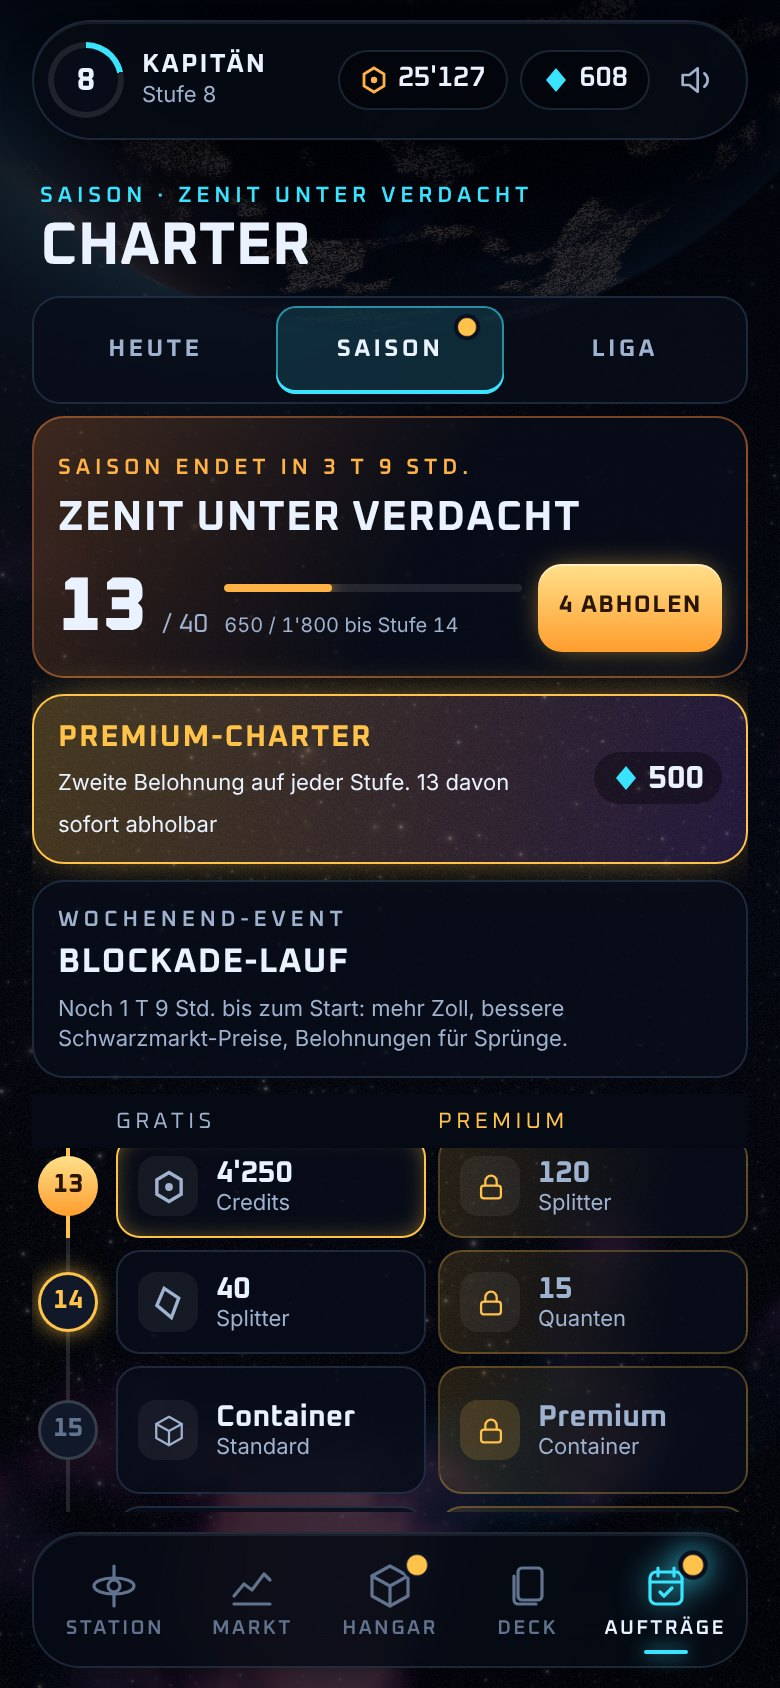
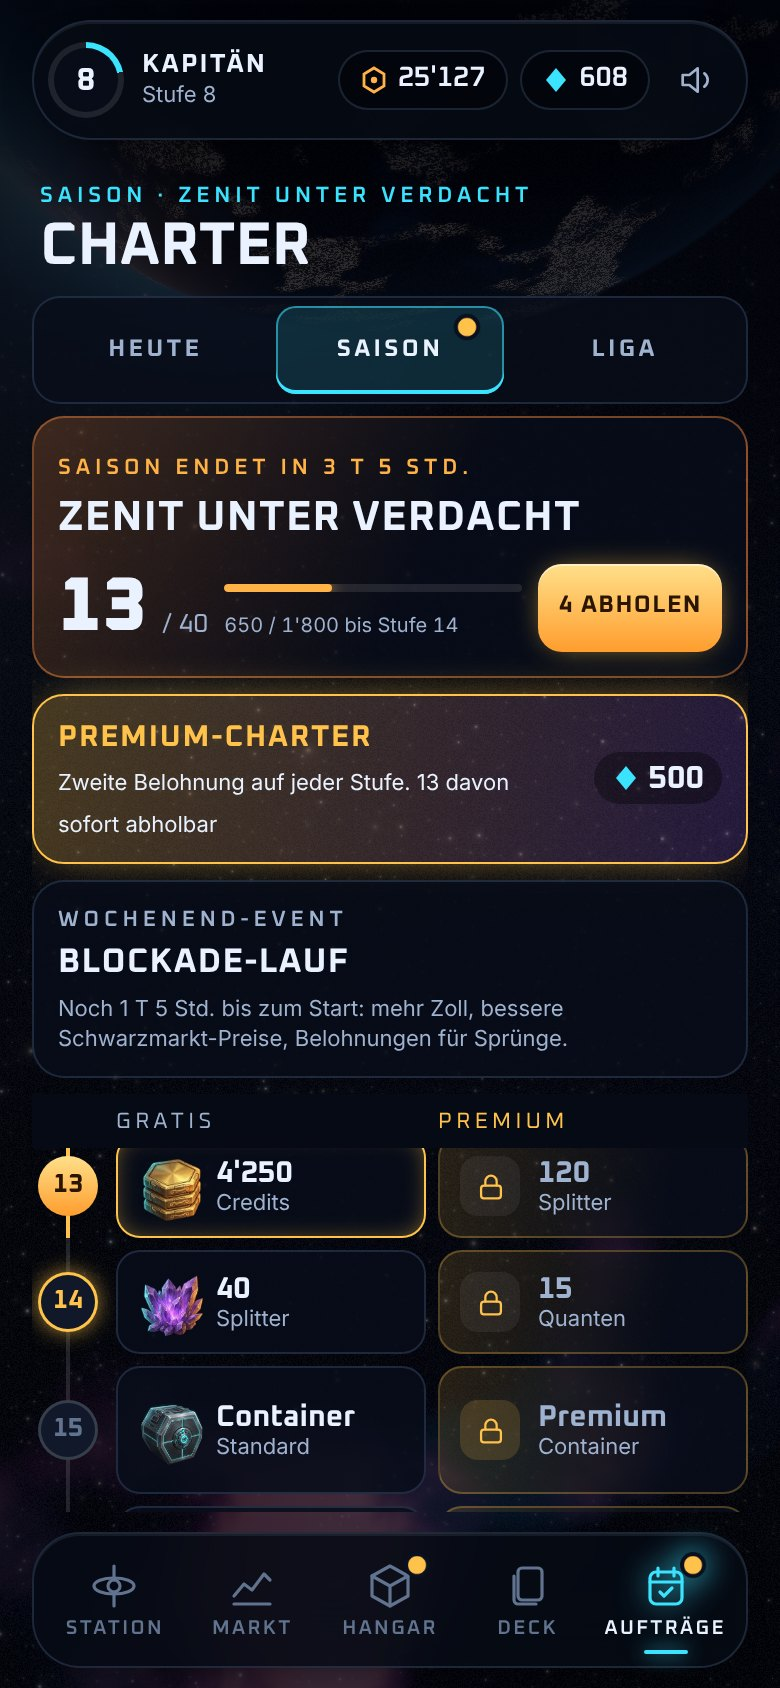
Encounter beat, shorter skippable warp, arrival chips, currency art
- Between an encounter choice and its result there is a beat of about a
  second with one steady pulse, the same for every choice and outcome.
  The chance that was shown stays on screen
- From the fourth jump of a session the launch is shorter, and a tap skips
  launch and cruise
- The arrival card shows courier pay, the streak tick and what the cargo
  on board is worth at this market. The streak no longer toasts mid-warp
- Charter reward tiles use the rendered currency and crate art

Claude-Session: https://claude.ai/code/session_01LRkk68pyJcCphAoNdXRYk3

diff --git a/packages/client/src/ui/Travel.tsx b/packages/client/src/ui/Travel.tsx
@@ -1,15 +1,20 @@
-import { FACTIONS, GOOD_BY_ID, STATION_BY_ID, type EncounterChoice, type GoodId } from '@nova/core';
+import { FACTIONS, GOOD_BY_ID, quote, STATION_BY_ID, type EncounterChoice, type GoodId } from '@nova/core';
 import { useEffect, useState } from 'react';
 import { audio } from '../audio/engine.ts';
 import { stage } from '../stage/index.ts';
 import { useApp, type Travel as TravelState } from '../store.ts';
 import { FACTION_COLOR, num } from './format.ts';
 
-type Phase = 'launch' | 'encounter' | 'outcome' | 'cruise' | 'arrive';
+type Phase = 'launch' | 'encounter' | 'resolve' | 'outcome' | 'cruise' | 'arrive';
 
-const LAUNCH_MS = 2400;
+/** The first jumps of a session get the full launch. After that it is shorter: jump 200 is not jump 1. */
+const LAUNCH_LONG_MS = 2400;
+const LAUNCH_SHORT_MS = 1400;
+let jumpsThisSession = 0;
+/** The beat between a choice and its result. The result is already decided: this only lets it land. */
+const RESOLVE_MS = 1100;
 const CRUISE_MS = 1100;
-const ARRIVE_MS = 2600;
+const ARRIVE_MS = 3400;
 
 
 const OPTION: Record<EncounterChoice, { label: string; stat?: 'nav' | 'hdl' | 'tec' | 'kmp'; note: (hot: boolean) => string }> = {
@@ -40,26 +45,39 @@ export function Travel({ travel }: { travel: TravelState }) {
   const busy = useApp((s) => s.busy);
   const end = useApp((s) => s.endTravel);
   const [phase, setPhase] = useState<Phase>(travel.resumed ? 'encounter' : 'launch');
+  const [chosen, setChosen] = useState<EncounterChoice | null>(null);
+  /** The chance as it was shown when the choice was made: the encounter is gone from the view once it is resolved. */
+  const [chosenChance, setChosenChance] = useState(1);
+  const [beatOver, setBeatOver] = useState(false);
+  const [launchMs] = useState(() => (jumpsThisSession++ >= 3 ? LAUNCH_SHORT_MS : LAUNCH_LONG_MS));
   const dest = STATION_BY_ID.get(travel.to)!;
   const encounter = view.encounter;
 
   // The server answer for an encounter choice arrives as travel.outcome.
-  useEffect(() => { if (travel.outcome && phase === 'encounter') setPhase('outcome'); }, [travel.outcome, phase]);
+  // It is shown once the beat is over, never before.
+  useEffect(() => {
+    if (travel.outcome && (phase === 'encounter' || (phase === 'resolve' && beatOver))) setPhase('outcome');
+  }, [travel.outcome, phase, beatOver]);
 
   useEffect(() => {
     let timer = 0;
     if (phase === 'launch') {
       audio.duck(true);
-      audio.warp(LAUNCH_MS / 1000);
+      audio.warp(launchMs / 1000);
       stage.setWarp(1);
       stage.setPlanet(-1.6, 0.4, 1.8); // the world slides past as we accelerate
-      timer = window.setTimeout(() => setPhase(encounter ? 'encounter' : 'arrive'), LAUNCH_MS);
+      timer = window.setTimeout(() => setPhase(encounter ? 'encounter' : 'arrive'), launchMs);
     } else if (phase === 'encounter') {
       stage.setWarp(0.3);
       stage.snapPlanet(0, 3, 0.3);
       stage.setRift(encounter?.kind === 'pirates' ? [1, 0.18, 0.2] : [0.25, 0.55, 1], 0.28);
       stage.pulse(0.3);
       audio.alert(encounter?.kind ?? 'customs');
+    } else if (phase === 'resolve') {
+      // One steady pulse for every choice and every result: nothing here hints at how it ends.
+      setBeatOver(false);
+      audio.riser(RESOLVE_MS / 1000);
+      timer = window.setTimeout(() => setBeatOver(true), RESOLVE_MS);
     } else if (phase === 'outcome') {
       const ok = travel.outcome!.success;
       stage.setRift(ok ? [0.3, 1, 0.7] : [1, 0.2, 0.2], 0.4);
@@ -86,15 +104,33 @@ export function Travel({ travel }: { travel: TravelState }) {
     // eslint-disable-next-line react-hooks/exhaustive-deps
   }, [phase]);
 
-  const choose = (choice: EncounterChoice) => (): void => { audio.tap(); void send({ type: 'Encounter', choice }); };
+  const choose = (choice: EncounterChoice) => (): void => {
+    audio.tap();
+    setChosen(choice);
+    setChosenChance(encounter?.options.find((o) => o.id === choice)?.chance ?? 1);
+    setPhase('resolve');
+    // If the choice is refused there is no result to wait for: back to the decision.
+    void send({ type: 'Encounter', choice }).then((events) => { if (events.some((e) => e.type === 'CommandRejected')) setPhase('encounter'); });
+  };
+  const skip = (): void => {
+    if (phase === 'launch') setPhase(encounter ? 'encounter' : 'arrive');
+    else if (phase === 'cruise') setPhase('arrive');
+  };
+  // What the cargo on board is worth at this market, against what it cost.
+  const cargoHere = phase !== 'arrive' ? null : view.market.reduce<number | null>((sum, row) => {
+    const lot = view.cargo.items[row.goodId];
+    return lot ? (sum ?? 0) + Math.round(quote(row, 'sell', lot.qty) - lot.avgCost * lot.qty) : sum;
+  }, null);
+
 
   return (
-    <div className={`overlay travel travel--${phase}`} style={{ ['--faction' as string]: FACTION_COLOR[dest.faction] }}>
+    <div className={`overlay travel travel--${phase}`} style={{ ['--faction' as string]: FACTION_COLOR[dest.faction] }} onClick={skip}>
       {(phase === 'launch' || phase === 'cruise') && (
         <div className="travel__status">
           <span className="eyebrow">Sprung</span>
           <b>{dest.name}</b>
-          <div className="travel__bar"><i style={{ animationDuration: `${phase === 'launch' ? LAUNCH_MS : CRUISE_MS}ms` }} /></div>
+          <div className="travel__bar"><i style={{ animationDuration: `${phase === 'launch' ? launchMs : CRUISE_MS}ms` }} /></div>
+          <span className="overlay__hint travel__skip">Tippen zum Überspringen</span>
         </div>
       )}
 
@@ -128,6 +164,14 @@ export function Travel({ travel }: { travel: TravelState }) {
         </div>
       )}
 
+      {phase === 'resolve' && (
+        <div className="enc enc--resolve">
+          <span className="eyebrow">{chosen ? OPTION[chosen].label : ''}</span>
+          <div className="enc__beat"><i /><i /><i /></div>
+          {chosenChance < 1 && <small className="enc__chance">Chance {Math.round(chosenChance * 100)} %</small>}
+        </div>
+      )}
+
       {phase === 'outcome' && travel.outcome && (
         <div className={`enc enc--result ${travel.outcome.success ? 'is-win' : 'is-loss'}`}>
           <span className="eyebrow">{travel.outcome.success ? 'Geschafft' : 'Verloren'}</span>
@@ -158,7 +202,22 @@ export function Travel({ travel }: { travel: TravelState }) {
           <span className="eyebrow">{FACTIONS[dest.faction].name} · {dest.tagline}</span>
           <h2>{dest.name}</h2>
           <div className="arrive__line" />
-          <span className="arrive__sub">Andocken{travel.courier > 0 ? ` · Kurierpost +${num(travel.courier)}` : ''}</span>
+          <span className="arrive__sub">Andocken</span>
+          <div className="arrive__chips">
+            {travel.courier > 0 && <span className="arrive__chip"><small>Kurierpost</small><b>+{num(travel.courier)}</b></span>}
+            {travel.streak && (
+              <span className="arrive__chip arrive__chip--streak">
+                <small>{travel.streak.kind === 'saved' ? 'Serie gerettet' : 'Serie'}</small>
+                <b>{travel.streak.count} {travel.streak.count === 1 ? 'Tag' : 'Tage'}</b>
+              </span>
+            )}
+            {cargoHere !== null && (
+              <span className={`arrive__chip ${cargoHere >= 0 ? 'is-up' : 'is-down'}`}>
+                <small>Deine Fracht hier</small>
+                <b>{cargoHere >= 0 ? '+' : '−'}{num(Math.abs(cargoHere))}</b>
+              </span>
+            )}
+          </div>
         </div>
       )}
     </div>

diff --git a/packages/client/src/store.ts b/packages/client/src/store.ts
@@ -21,6 +21,8 @@ export interface Travel {
   resumed: boolean;
   /** Courier pay on arrival, once known. */
   courier: number;
+  /** The streak moved on this jump: shown on arrival. */
+  streak: { count: number; kind: 'started' | 'extended' | 'saved' } | null;
 }
 
 export interface SalePop { id: number; profit: number; revenue: number; label: string; size: 's' | 'm' | 'l' }
@@ -169,7 +171,7 @@ export const useApp = create<AppState>((set, get) => ({
     const view = await get().service.connect();
     set({ view, clockOffset: view.serverTime - Date.now() });
     // Reconnected in the middle of an encounter: pick the scene up where it stopped.
-    if (view.encounter) set({ travel: { from: view.location, to: view.encounter.to, outcome: null, resumed: true, courier: 0 } });
+    if (view.encounter) set({ travel: { from: view.location, to: view.encounter.to, outcome: null, resumed: true, courier: 0, streak: null } });
   },
 
   async send(cmd) {
@@ -208,7 +210,7 @@ export const useApp = create<AppState>((set, get) => ({
         if (ev.type === 'LeagueClaimed' && ev.moved > 0) get().celebrate({ kind: 'league', tierName: view.league.tierName, rank: ev.rank });
         if (ev.type === 'LeagueClaimed' && ev.moved < 0) get().showToast('Abgestiegen');
         if (ev.type === 'CrateOpened') set({ reveal: ev.pulls, revealCrate: ev.source === 'reward' ? null : ev.tier });
-        if (ev.type === 'JumpStarted') set({ travel: { from: ev.from, to: ev.to, outcome: null, resumed: false, courier: 0 }, routesOpen: false });
+        if (ev.type === 'JumpStarted') set({ travel: { from: ev.from, to: ev.to, outcome: null, resumed: false, courier: 0, streak: null }, routesOpen: false });
         if (ev.type === 'Arrived') {
           const travel = get().travel;
           if (travel) set({ travel: { ...travel, courier: ev.courier } });
@@ -232,8 +234,13 @@ export const useApp = create<AppState>((set, get) => ({
         if (ev.type === 'CardUpgraded') { audio.reveal(1); get().showToast(`Aufgewertet auf Stufe ${ev.level}`, 'good'); }
         if (ev.type === 'StreakChanged') {
           if (ev.kind === 'lost') get().showToast(`Serie gerissen (war ${ev.previous} Tage)`);
-          else if (ev.kind === 'saved') get().showToast(`Urlaubsschein eingelöst: Serie ${ev.count} Tage`, 'good');
-          else get().showToast(`Serie: ${ev.count} ${ev.count === 1 ? 'Tag' : 'Tage'}`, 'good');
+          else {
+            const travel = get().travel;
+            // On a jump the arrival card shows it. Anywhere else a toast does.
+            if (travel) set({ travel: { ...travel, streak: { count: ev.count, kind: ev.kind } } });
+            else if (ev.kind === 'saved') get().showToast(`Urlaubsschein eingelöst: Serie ${ev.count} Tage`, 'good');
+            else get().showToast(`Serie: ${ev.count} ${ev.count === 1 ? 'Tag' : 'Tage'}`, 'good');
+          }
         }
         if (ev.type === 'CommandRejected') {
           audio.deny();

diff --git a/packages/client/src/ui/styles.css b/packages/client/src/ui/styles.css
@@ -1860,6 +1860,30 @@ button.lot:active { transform: scale(0.98); }
 .coach__pips i.now { background: var(--cyan); box-shadow: 0 0 8px var(--cyan); }
 .hub__skip { align-self: center; min-height: 36px; margin-top: -2px; font-size: 12px; color: var(--ink-dim); }
 
+/* Encounter: the beat between choosing and knowing. Arrival: what the jump brought. */
+.enc--resolve { align-items: center; gap: 18px; text-align: center; }
+.enc--resolve .eyebrow { font-size: 15px; letter-spacing: 0.3em; color: var(--ink); }
+.enc__beat { display: flex; gap: 12px; }
+.enc__beat i { width: 14px; height: 14px; border-radius: 50%; background: var(--ink); animation: beat 0.66s ease-in-out infinite; }
+.enc__beat i:nth-child(2) { animation-delay: 0.11s; }
+.enc__beat i:nth-child(3) { animation-delay: 0.22s; }
+@keyframes beat { 0%, 100% { transform: scale(0.6); opacity: 0.35; } 50% { transform: scale(1.25); opacity: 1; } }
+.enc__chance { font-family: var(--font-display); font-size: 12px; letter-spacing: 0.14em; text-transform: uppercase; color: var(--ink-dim); }
+.travel__skip { position: static; margin-top: 14px; opacity: 0.55; }
+.arrive__chips { display: flex; flex-wrap: wrap; justify-content: center; gap: 8px; margin-top: 18px; text-shadow: none; }
+.arrive__chip { display: flex; flex-direction: column; align-items: center; min-width: 96px; padding: 8px 12px; border-radius: 14px; background: rgba(6, 10, 20, 0.86); border: 1px solid var(--stroke); animation: rise 0.45s var(--out) both; }
+.arrive__chip:nth-child(1) { animation-delay: 0.7s; }
+.arrive__chip:nth-child(2) { animation-delay: 0.85s; }
+.arrive__chip:nth-child(3) { animation-delay: 1s; }
+.arrive__chip small { font-size: 10px; letter-spacing: 0.12em; text-transform: uppercase; color: var(--ink-dim); }
+.arrive__chip b { font-family: var(--font-display); font-size: 18px; font-variant-numeric: tabular-nums; }
+.arrive__chip--streak { border-color: rgba(255, 179, 71, 0.6); }
+.arrive__chip--streak b { color: var(--amber); }
+.arrive__chip.is-up b { color: var(--ok); }
+.arrive__chip.is-down b { color: var(--danger); }
+.rtile__icon--art { background: none; }
+.rtile__icon--art img { width: 34px; height: 34px; object-fit: contain; }
+
 .toast {
   position: fixed;
   z-index: 60;

diff --git a/packages/client/src/ui/Season.tsx b/packages/client/src/ui/Season.tsx
@@ -2,6 +2,7 @@ import { charterReward, CONFIG } from '@nova/core';
 import { useEffect, useRef } from 'react';
 import { audio } from '../audio/engine.ts';
 import { useApp } from '../store.ts';
+import { art } from './art.ts';
 import { longCountdown, num, rewardText } from './format.ts';
 import { useServerNow } from './hooks.ts';
 import type { Reward } from '@nova/core';
@@ -16,9 +17,13 @@ function RewardTile({ reward, state, premium = false }: { reward: Reward; state:
         : reward.quanta ? { icon: <Quanta />, amount: num(reward.quanta), label: 'Quanten', big: false }
           : { icon: <Shard />, amount: num(reward.shards ?? 0), label: 'Splitter', big: false };
   const extra = (reward.seasonCard || reward.crate) && reward.quanta ? `+ ${reward.quanta} Quanten` : '';
+  // Rendered art where it has been made: crates and currencies.
+  const picture = reward.seasonCard ? undefined
+    : reward.crate ? art('crates', reward.crate)
+      : art('currency', reward.credits ? 'credits' : reward.quanta ? 'quanta' : 'shards');
   return (
     <span className={`rtile rtile--${state}${premium ? ' rtile--premium' : ''}${main.big ? ' rtile--big' : ''}`}>
-      <span className="rtile__icon">{state === 'locked' ? <IconLock /> : main.icon}</span>
+      <span className={`rtile__icon${picture && state !== 'locked' ? ' rtile__icon--art' : ''}`}>{state === 'locked' ? <IconLock /> : picture ? <img src={picture} alt="" draggable={false} /> : main.icon}</span>
       <span className="rtile__main"><b>{main.amount}</b><small>{main.label}{extra ? ` ${extra}` : ''}</small></span>
       {state === 'claimed' && <span className="rtile__check">✓</span>}
     </span>

diff --git a/docs/redesign/03-roadmap.md b/docs/redesign/03-roadmap.md
@@ -41,6 +41,7 @@ Arbeitstitel: **PROJEKT NOVA**. Grundlage: Architektur (Dokument 01) und Mechani
 | Design-Runde 1 nach zwei unabhängigen Prüfungen (Art Direction, UX und Fairness): Lesbarkeit, Farbrollen, Vollbild-Momente, gestufte Verkaufs-Rückmeldung, Zwei-Tipp-Bestätigung für Quanten, Schliessen-Knopf in jedem Fenster, Einstieg für neue Spieler. Details in Dokument 07 | fertig | Eigener Durchlauf mit 12 Prüfungen, dabei einen Fehler gefunden und behoben |
 | Grafik-Auftrag: Stil, Formate, Dateinamen und Prompts für 127 Bilder in 11 Paketen. Dokument 06 | Pakete A bis D geliefert und eingebaut (35 Bilder): 6 Schiffe, 4 Container, 6 Saison-Karten, 19 Elite-Karten | Import-Werkzeug prüft Name, Format und Hintergrund. Sichtprüfung jedes Bilds im Spiel |
 | Container in der Enthüllung: erscheint, wackelt, bricht auf. Schiffe als Bilder mit Lackierung als Farbschicht | fertig | Durchläufe mit Screenshots |
+| Begegnungen mit Spannungsmoment, kürzerer und überspringbarer Warp, Ankunft mit Kurierpost, Serie und Frachtwert. Währungen als Bilder im Charter | fertig | Durchlauf prüft, dass das Ergebnis erst nach dem Spannungsmoment erscheint |
 | Gemalte Kartenporträts mit Rückfall auf prozedurale Avatare | fertig, alle 10 Legenden und Singularitäten | Screenshots, siehe Dokument 04 |
 | Rote Punkte für alles Abholbare | fertig | Tests |
 | Bot-Simulation | fertig | Zwei Spielertypen, je 10 Spieler über 90 Tage, dazu Leitplanken-Test |
@@ -259,5 +260,5 @@ Hier kommt der grösste Teil des Katalogs.
 
 1. **Grafiken erzeugen** (deine Seite, Dokument 06): zuerst Schiffe, Container und die Saison-Karten. Ich baue jedes Paket ein, sobald Dateien da sind.
 2. **Gerätetest** (deine Seite): die Android-App installieren und spielen.
-3. **Design-Runde 2** (Dokument 07): Container-Enthüllung, Spannungsmoment bei Begegnungen, kürzerer Warp, Markt mit Waren-Symbolen, Glücksrad, Neuordnung der Tabs.
+3. **Design-Runde 2, Rest** (Dokument 07): Markt mit Waren-Symbolen, Glücksrad, Neuordnung der Tabs, Belohnungen fliegen zum Geldbeutel.
 4. Danach zur Wahl: Backend für echte Mitspieler mit Konten und Cloud-Speicher, oder der Rest aus Phase 2.

diff --git a/docs/redesign/07-design-pruefung.md b/docs/redesign/07-design-pruefung.md
@@ -46,8 +46,8 @@ Nach Wirkung geordnet. S unter einer halben Stunde, M Stunden, L ein Tag oder me
 | # | Thema | Aufwand |
 |---|---|---|
 | 1 | Erledigt am 26.11.: Der Container erscheint, wackelt immer stärker und bricht mit einem Blitz auf, für jeden Container gleich. Die beste Karte ist in der Zusammenfassung hervorgehoben. Offen bleibt der Knopf "Aufstellen" | Rest S |
-| 2 | Begegnungen ohne Spannungsmoment zwischen Wahl und Ergebnis. Rund eine Sekunde Aufbau, ohne Zeiger, der knapp daneben stehen bleibt | M |
-| 3 | Warp ist jedes Mal gleich lang. Ab dem dritten Sprung kürzer und per Tipp überspringbar. Ankunft zeigt Kurierpost, Serie und Wert der Fracht am Ziel | M |
+| 2 | Erledigt am 26.11.: Zwischen Wahl und Ergebnis liegt gut eine Sekunde mit gleichmässigem Puls, für jede Wahl und jedes Ergebnis gleich. Kein Zeiger, der knapp daneben stehen bleibt | |
+| 3 | Erledigt am 26.11.: Ab dem vierten Sprung einer Sitzung ist der Start kürzer, und ein Tipp überspringt ihn. Die Ankunft zeigt Kurierpost, Serie und was die Fracht am Ziel wert ist | |
 | 4 | Belohnungen fliegen sichtbar zum Geldbeutel | M |
 | 5 | Markt ist reine Schrift. Waren-Symbole und Zeilen in gemeinsamen Flächen statt einzelner Kästen | M, mit Grafik aus Paket F |
 | 6 | Glücksrad: Beschriftung stellenweise kopfüber oder abgeschnitten, kein Ticken beim Drehen | M |
